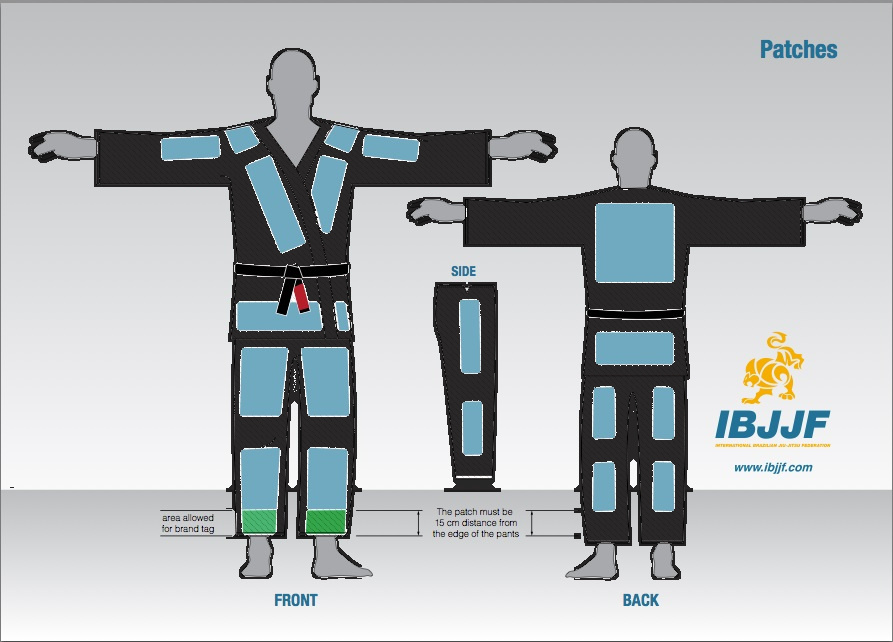
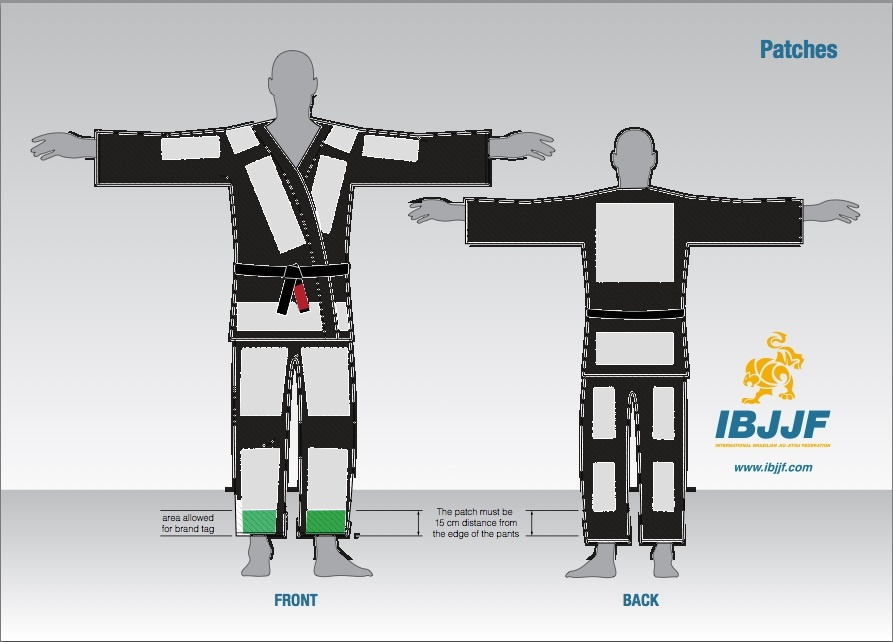
Update the GI color explorer figure and measurement markers
Place the color explorer and measurement explorer side by side on desktop. Use the official patch-area drawing without the separate side-view pant, recolor only the GI fabric, and show authorized patch areas in white on royal blue and black. Sit each numbered measurement marker immediately left of its official label.

diff --git a/index.html b/index.html
@@ -53,12 +53,13 @@
         <p class="note">Official color codes are in <a href="#colors">Belts &amp; Colors</a> and the Uniform Manual for Manufacturers. Royal blue is PMS 2172 C (fabric: 18-4039 TCX Regatta). Navy blue is not allowed.</p>
       </article>
 
+      <div class="grid-2 explorers-row">
       <article class="card">
         <h2>GI color explorer</h2>
-        <p class="caption">Select a permissible color. Only the GI fabric changes; outlines, belt, teal patch areas and green brand-tag areas stay the same. Click the image to zoom.</p>
+        <p class="caption">Select a permissible color. Only the GI fabric changes. Authorized patch areas are teal on a white GI and white on a royal blue or black GI. Outlines, belt and green brand-tag areas stay the same. Click the image to zoom.</p>
         <div class="gi-preview" id="gi-preview">
           <div class="gi-color-stage">
-            <img id="gi-color-img" src="assets/img/site/gi-patches-white.png" alt="Official GI patch-area drawing in white. Teal areas are authorized for patches; green is the area allowed for a brand tag." data-zoom="assets/img/site/gi-patches-white.png" tabindex="0">
+            <img id="gi-color-img" src="assets/img/site/gi-patches-white.png" alt="Official GI patch-area drawing in white. Authorized patch areas are teal on a white GI and white on a royal blue or black GI; green is the area allowed for a brand tag." data-zoom="assets/img/site/gi-patches-white.png" tabindex="0">
           </div>
           <p id="gi-color-label" style="font-family:var(--font-display);font-weight:700;text-transform:uppercase;margin:.7rem 0 0;">White</p>
           <p id="gi-color-note" class="caption">Permissible GI colors: white, royal blue or black. On-screen color is approximate.</p>
@@ -72,7 +73,7 @@
         <div class="patch-legend">
           <h3>Where patches are allowed — and where they are not</h3>
           <div class="legend-row">
-            <div class="legend-item"><span class="sw" style="background:#7eb8c9;"></span><span>Teal areas on the figure are the authorized regions for patches, as depicted in the IBJJF Rules Book.</span></div>
+            <div class="legend-item"><span class="sw" style="background:#7eb8c9;"></span><span>On a white GI, teal areas are the authorized regions for patches, as depicted in the IBJJF Rules Book. On a royal blue or black GI, those same regions are shown in white.</span></div>
             <div class="legend-item"><span class="sw" style="background:#3cb44b;"></span><span>Green areas: area allowed for brand tag.</span></div>
           </div>
           <p class="rule">The patch must be 15 cm distance from the edge of the pants.</p>
@@ -90,18 +91,19 @@
         <p class="caption">Select a numbered point on the official figure, or click the image to zoom.</p>
         <div class="measure-map">
           <img src="assets/img/site/gi-measurements.jpg" alt="Official GI measurement figure: sleeve, collar, belt, jacket length and ankle distances." data-zoom="assets/img/site/gi-measurements.jpg" tabindex="0">
-          <button type="button" class="hotspot" style="left:30%;top:33.8%;" data-measure="wrist" aria-pressed="false" title="Sleeves at the wrist">1</button>
-          <button type="button" class="hotspot" style="left:14.8%;top:51%;" data-measure="length" aria-pressed="false" title="Jacket length">2</button>
-          <button type="button" class="hotspot" style="left:18.8%;top:86%;" data-measure="ankle" aria-pressed="false" title="Pants at the ankle">3</button>
-          <button type="button" class="hotspot" style="left:47%;top:26.5%;" data-measure="sleeve" aria-pressed="false" title="Sleeve opening">4</button>
-          <button type="button" class="hotspot" style="left:61.5%;top:36%;" data-measure="collar" aria-pressed="false" title="Collar and lapel">5</button>
-          <button type="button" class="hotspot" style="left:64.5%;top:46.5%;" data-measure="belt" aria-pressed="false" title="Belt">6</button>
+          <button type="button" class="hotspot" style="left:24.01%;top:38.43%;" data-measure="wrist" aria-pressed="false" title="Sleeves at the wrist">1</button>
+          <button type="button" class="hotspot" style="left:19.84%;top:50.47%;" data-measure="length" aria-pressed="false" title="Jacket length">2</button>
+          <button type="button" class="hotspot" style="left:22.55%;top:84.17%;" data-measure="ankle" aria-pressed="false" title="Pants at the ankle">3</button>
+          <button type="button" class="hotspot" style="left:49.04%;top:32.52%;" data-measure="sleeve" aria-pressed="false" title="Sleeve opening">4</button>
+          <button type="button" class="hotspot" style="left:73.84%;top:33.15%;" data-measure="collar" aria-pressed="false" title="Collar and lapel">5</button>
+          <button type="button" class="hotspot" style="left:73.84%;top:45.28%;" data-measure="belt" aria-pressed="false" title="Belt">6</button>
         </div>
         <div class="measure-detail" id="measure-detail">
           <strong id="measure-title">Select a point</strong>
           <p id="measure-text" class="rule" style="margin:.35rem 0 0;">Use the numbered markers to read the official measurement for that part of the GI.</p>
         </div>
       </article>
+      </div>
 
       <article class="card">
         <h2>Belt requirements</h2>

diff --git a/assets/css/styles.css b/assets/css/styles.css
@@ -241,7 +241,7 @@ ul.rules li, ol.rules li { margin: 0 0 .4rem; }
   border: 2px solid #fff; box-shadow: 0 0 0 2px rgba(0,69,129,.35);
   font-family: var(--font-display); font-weight: 700; font-size: .72rem;
   display: flex; align-items: center; justify-content: center;
-  cursor: pointer; padding: 0; transform: translate(-50%, -50%);
+  cursor: pointer; padding: 0; box-sizing: border-box; transform: translate(calc(-100% - 6px), -50%);
 }
 .hotspot:hover, .hotspot[aria-pressed="true"] { background: var(--ibjjf-primary); color: #fff; }
 .measure-detail {
@@ -332,4 +332,8 @@ ul.rules li, ol.rules li { margin: 0 0 .4rem; }
 .shorts-row { display:grid; grid-template-columns: 1.15fr .85fr; gap:1.15rem; align-items:start; }
 @media (max-width: 768px) {
   .shorts-row { grid-template-columns: 1fr; }
+}
+
+@media (max-width: 576px) {
+  .hotspot { width: 20px; height: 20px; font-size: .68rem; }
 }

diff --git a/assets/js/app.js b/assets/js/app.js
@@ -230,7 +230,7 @@
       if (giImg && allowed && GI_ART[key]) {
         giImg.src = GI_ART[key];
         giImg.setAttribute("data-zoom", GI_ART[key]);
-        giImg.alt = "Official GI patch-area drawing in " + name + ". Teal areas are authorized for patches; green is the area allowed for a brand tag.";
+        giImg.alt = "Official GI patch-area drawing in " + name + ". Authorized patch areas are teal on a white GI and white on a royal blue or black GI; green is the area allowed for a brand tag.";
       }
       if (giLabel) giLabel.textContent = name;
       if (giNote) {
